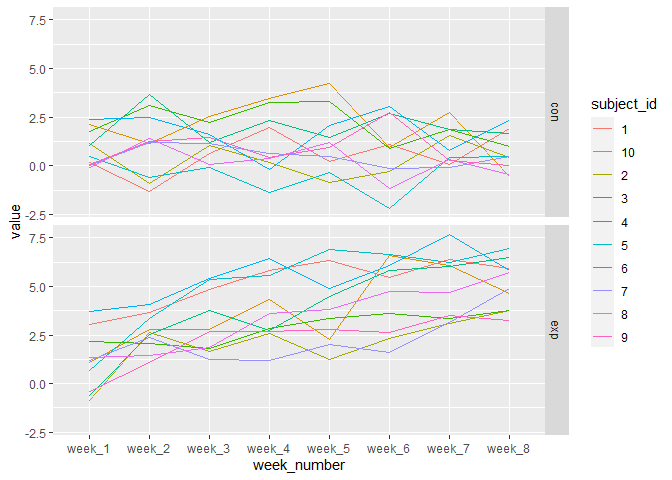
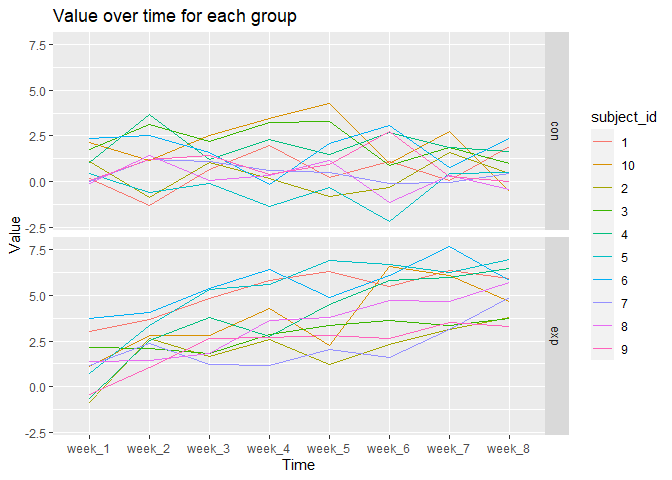
first plot of problem 3 complete

diff --git a/p8105_hw5_ar4040.md b/p8105_hw5_ar4040.md
@@ -402,7 +402,8 @@ for each treatment arm
 problem2_df%>%
   ggplot(aes(x = week_number, y = value, color = subject_id, group = subject_id))+
   geom_line()+
-  facet_grid( arm ~ .)
+  facet_grid( arm ~ .)+
+  labs(title = "Value over time for each group", x = "Time", y = "Value")
 ```
 
 ![](p8105_hw5_ar4040_files/figure-gfm/unnamed-chunk-9-1.png)<!-- -->
@@ -412,3 +413,58 @@ experimental arm but stay relatively constant in the control arm. The
 values start at about the same average value in the beginning for both
 groups, but over time, the values in the experimental group increase and
 are greater than those in the control group.
+
+## Problem 3
+
+Let us create the simulation function
+
+``` r
+simulation = function(n = 30, mu, sigma = 5) {
+  
+  sim_data = tibble(
+    x = rnorm(n, mean = mu, sd = sigma)
+  )
+  
+  sim_data %>% 
+  t.test()%>%
+  broom::tidy()%>%
+  select(estimate, p.value)
+    
+}
+```
+
+Now let us run the simulation 5000 times for mu values ranging from 0 to
+7 and save the results in a tibble
+
+``` r
+sim_results = tibble(true_mu = c(0,1,2,3,4,5,6)) %>% 
+  mutate(
+    output = map(.x = true_mu, ~rerun(100, simulation(mu = .x))),
+    combined_output = map(output, bind_rows)) %>% 
+  select(-output) %>% 
+  unnest(combined_output)
+```
+
+With the final dataset, we can make a plot showing the proportion of
+times the null was rejected vs the true value of mu
+
+``` r
+sim_results%>%
+  mutate(reject = case_when(
+    
+    p.value < 0.05 ~ 1,
+    p.value >= 0.05 ~ 0
+    
+  ))%>%
+  group_by(true_mu)%>%
+  summarize(power = sum(reject)/n()  )%>%
+  ggplot(aes(x = true_mu, y=power))+
+  geom_line()+
+  labs(title = "Power vs Effect Size", x = "True value of Mu", y = "Power")
+```
+
+    ## `summarise()` ungrouping output (override with `.groups` argument)
+
+![](p8105_hw5_ar4040_files/figure-gfm/unnamed-chunk-12-1.png)<!-- --> It
+is clear that as the true value of mu or effect size increases, power
+increases as well. Hence power and effect size are directly related.
